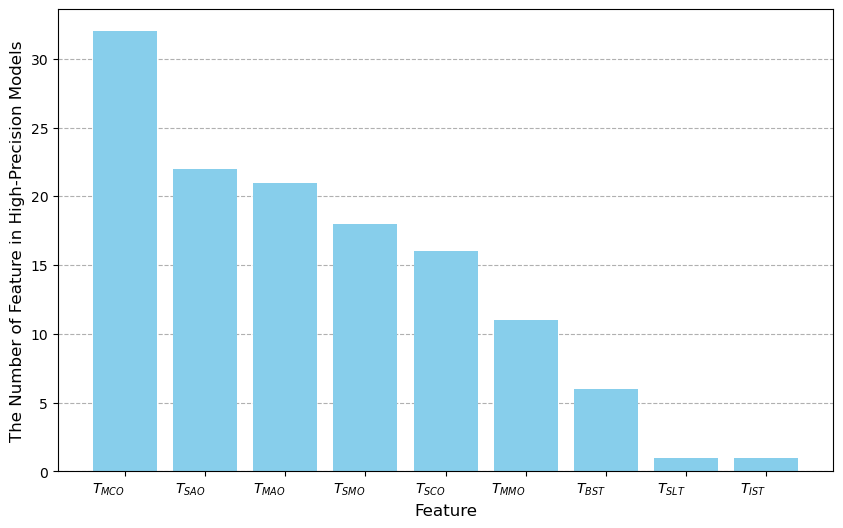
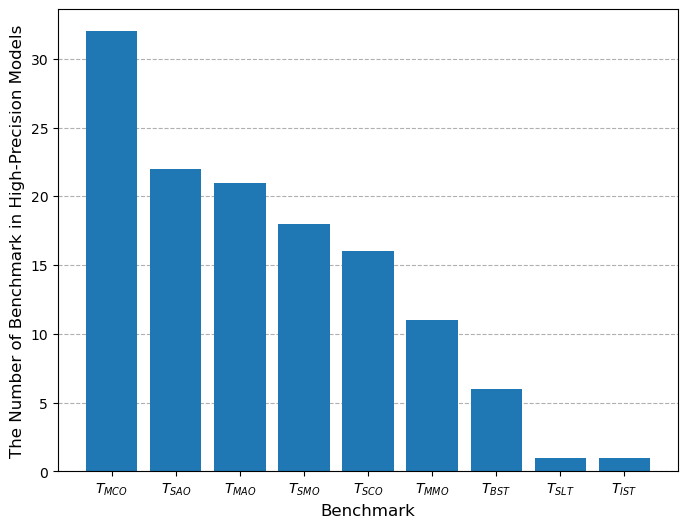
卒論　グラフの修正　ok

diff --git a/mape_boxplot_for_spec_benchmark.py b/mape_boxplot_for_spec_benchmark.py
@@ -1,17 +1,8 @@
-import os
 import sys
-
-import matplotlib.pyplot as plt
+import os
 import pandas as pd
+import matplotlib.pyplot as plt
 import seaborn as sns
-
-# サーバーの順序
-SERVER_ORDER = [
-    "13th corei5 - GTX1080", "13th corei5 - GTX1650", "13th corei5 - RTX3050",
-    "13th corei5 - RTX3060 Ti", "13th corei5 - RTX4070", "13th corei7 - GTX1080",
-    "13th corei7 - RTX3050", "13th corei7 - RTX3060 Ti", "13th corei7 - RTX4070",
-    "1th Xeon Gold - GTX1080", "1th Xeon Gold - RTX4070", "9th corei7 - RTX2080 Ti"
-]
 
 
 def main():
@@ -41,59 +32,27 @@ def main():
     benchmark_filtered_df = benchmark_df[benchmark_df['Variable Parameter'].apply(
         lambda x: set(x) == set(benchmark_parameter))]
 
-    # `Model Type` 列を追加して、どのデータが何のパラメータに対応するかを明示
-    spec_filtered_df['Model Type'] = 'Hardware spec Model'
-    benchmark_filtered_df['Model Type'] = 'Benchmark Model'
+    # `Category` 列を追加して、どのデータが何のパラメータに対応するかを明示
+    spec_filtered_df['Category'] = 'Hardware spec Model'
+    benchmark_filtered_df['Category'] = 'Benchmark Model'
 
-    hue_order = ['Benchmark Model', 'Hardware spec Model']
     # データフレームを結合
     combined_df = pd.concat([benchmark_filtered_df, spec_filtered_df])
 
-    # 棒グラフの作成
-    plt.figure(figsize=(9, 6))
-    ax = plt.gca()
-    ax.grid(axis='y', linestyle='--', zorder=1)  # グリッドをzorder=1で描画
-    palette = ['#1f77b4', '#ff7f0e']
-    # 棒グラフのプロット
-    sns.barplot(
-        x='Leave One',
-        y='MAPE test (%)',
-        hue='Model Type',
-        data=combined_df,
-        palette=palette,
-        order=SERVER_ORDER,
-        hue_order=hue_order,
-        zorder=2  # 棒グラフをzorder=2で描画
-    )
-
-    # Model Type ごとの平均 MAPE を計算
-    avg_mape = combined_df.groupby('Model Type')['MAPE test (%)'].mean().reset_index()
-
-    # 平均MAPEを直線でY軸に描画
-    for model_type in hue_order:
-        # 指定したModel Typeのデータを抽出
-        model_data = avg_mape[avg_mape['Model Type'] == model_type]
-
-        # 直線の色を設定
-        if model_type == 'Benchmark Model':
-            line_color = '#1f77b4'  # 青色
-        elif model_type == 'Hardware spec Model':
-            line_color = '#ff7f0e'  # オレンジ色
-
-        # Y軸に平均MAPEの直線を引く
-        ax.axhline(y=model_data['MAPE test (%)'].values[0],
-                   color=line_color,
-                   linestyle='--',
-                   linewidth=1,
-                   label=f'{model_type} average MAPE')
+    # 箱ひげ図の作成
+    plt.figure(figsize=(10, 6))
+    sns.boxplot(x='Category',
+                y='MAPE test (%)',
+                data=combined_df,
+                showmeans=True,
+                palette='Set3',
+                width=0.5,
+                whis=2.0)
 
     # タイトルとラベル設定
-    # 凡例を設定
-    plt.legend(loc='upper right')
-    plt.tight_layout()
-    plt.xlabel('Test Server', fontsize=12)
+    plt.xlabel('Model Type', fontsize=12)
     plt.ylabel('MAPE (%)', fontsize=12)
-    plt.xticks(rotation=45, ha='right', fontsize=10)
+    plt.xticks(fontsize=9)
     plt.tight_layout()
 
     # 出力ディレクトリの設定
@@ -101,7 +60,7 @@ def main():
     os.makedirs(output_dir, exist_ok=True)  # ディレクトリがない場合は作成
 
     # ファイルパスを設定して保存
-    output_path = os.path.join(output_dir, 'mape_comparison_spec_barplot.png')
+    output_path = os.path.join(output_dir, 'mape_comparison_spec_boxplot.png')
     plt.savefig(output_path, format='png')
 
     # 結果を表示

diff --git a/shap_analysis_parameter_visualization.py b/shap_analysis_parameter_visualization.py
@@ -1,8 +1,9 @@
-import pandas as pd
 import ast
-import matplotlib.pyplot as plt
-import seaborn as sns
 import os
+
+import matplotlib.pyplot as plt
+import pandas as pd
+import seaborn as sns
 from matplotlib.ticker import MaxNLocator  # MaxNLocatorをインポート
 
 csv_file = 'soturon_shap_graph.csv'
@@ -48,6 +49,9 @@ output_dir = './soturon_graph_data'
 if not os.path.exists(output_dir):
     os.makedirs(output_dir)
 
+# 1週目と2週目のPNGを保存するためのカウント
+roop_counter = 1
+
 for inputs in unique_inputs:
     # Variable Parameterに基づいてフィルタリング
     filtered_df = df[df['Variable Parameter'] == inputs]
@@ -72,7 +76,7 @@ for inputs in unique_inputs:
     shap_df['Parameter'] = shap_df['Parameter'].apply(to_latex_subscript)
 
     # グラフ作成: 各サーバーごとにパラメータのSHAP値を棒グラフで表示
-    plt.figure(figsize=(16, 8))  # 各グラフごとにサイズを設定
+    plt.figure(figsize=(9, 6))  # 各グラフごとにサイズを設定
 
     # 軸オブジェクトを取得
     ax = plt.gca()
@@ -96,13 +100,28 @@ for inputs in unique_inputs:
                                                                                10]))  # 10ごとの補助線
     # タイトルや設定
     #plt.title(f'Mean Absolute SHAP Values by Parameter and Server ({inputs})', fontsize=16)
-    plt.xticks(rotation=30, ha="right", fontsize=9)
+    plt.xlabel('Test Server', fontsize=12)
+    plt.ylabel('Mean Absolute SHAP Value', fontsize=12)
+    plt.xticks(rotation=45, ha="right", fontsize=10)
+    # 凡例の位置を右上に固定
+    plt.legend(loc='upper right')
+
     plt.tight_layout()
 
+    # 保存ファイル名の設定
+    if roop_counter == 1:
+        save_path = os.path.join(output_dir, "shap_graph_operation.png")
+    else:
+        save_path = os.path.join(output_dir, "shap_graph_transfer_and_operation.png")
+
     # 画像保存
-    save_path = os.path.join(output_dir, f"shap_graph_{inputs}.png")
     plt.savefig(save_path, bbox_inches='tight')  # PNG形式で保存
 
     # 現在の図をリセット
     plt.clf()  # 図をクリア
     plt.close()  # 図を閉じる
+
+    # 週数のカウントを進める
+    roop_counter += 1
+    if roop_counter > 2:
+        roop_counter = 1  # 1週目と2週目でローテーション

diff --git a/mape_comparison_across_servers.py b/mape_comparison_across_servers.py
@@ -1,7 +1,8 @@
-import pandas as pd
-import matplotlib.pyplot as plt
-import seaborn as sns
 import os
+
+import matplotlib.pyplot as plt
+import pandas as pd
+import seaborn as sns
 
 # パラメータリスト
 PARAMETER_LISTS = [['T_MCO', 'T_SMO', 'T_MAO'], ['T_BST', 'T_MCO', 'T_SAO']]
@@ -119,26 +120,31 @@ def plot_mape_comparison(df_filtered, output_dir):
         df_filtered (pd.DataFrame): フィルタリングされたデータフレーム。
         output_dir (str): グラフの保存先ディレクトリ。
     """
-    plt.figure(figsize=(14, 7))
+    plt.figure(figsize=(9, 6))
     ax = plt.gca()
     ax.grid(axis='y', linestyle='--', zorder=1)  # グリッドをzorder=1で描画
 
+    # Benchmark Parameter CombinationsをPARAMETER_LISTSの順番にソート
+    hue_order = [get_label(param_list) for param_list in PARAMETER_LISTS]
+    # 色の設定: 青とオレンジ
+    palette = ["#1f77b4", "#ff7f0e"]  # 青とオレンジ
     # 棒グラフのプロット
     sns.barplot(
         x='Leave One',
         y='MAPE test (%)',
         hue='Benchmark Parameter Combinations',
         data=df_filtered,
-        palette='Set1',
+        palette=palette,
         order=SERVER_ORDER,
+        hue_order=hue_order,
         zorder=2  # 棒グラフをzorder=2で描画
     )
 
     # タイトルとラベルの設定
-    plt.title('MAPE Comparison for Different Parameter Lists Across Servers', fontsize=16)
+    #plt.title('MAPE Comparison for Different Parameter Lists Across Servers', fontsize=16)
     plt.xlabel('Test Server', fontsize=12)
     plt.ylabel('MAPE (%)', fontsize=12)
-    plt.xticks(rotation=30, ha='right', fontsize=9)
+    plt.xticks(rotation=45, ha='right', fontsize=10)
     plt.tight_layout()
 
     # グラフを保存

diff --git a/plot_high_precision_models.py b/plot_high_precision_models.py
@@ -1,7 +1,8 @@
 import os
 import sys
-import pandas as pd
+
 import matplotlib.pyplot as plt
+import pandas as pd
 
 
 def main():
@@ -79,14 +80,14 @@ def plot_feature_importance(high_precision_models, output_dir):
         feature for features in high_precision_models['Variable Parameter'] for feature in features
     ]).value_counts()
 
-    plt.figure(figsize=(10, 6))
+    plt.figure(figsize=(8, 6))
     ax = plt.gca()
     ax.grid(axis='y', linestyle='--', zorder=1)  # グリッドを zorder=1 に設定
-    ax.bar(feature_counts.index, feature_counts.values, color='skyblue', zorder=2)  # 棒グラフ
+    ax.bar(feature_counts.index, feature_counts.values, zorder=2)  # 棒グラフ
     #plt.title('Feature Importance in High-Precision Models', fontsize=14)
-    plt.xlabel('Feature', fontsize=12)
-    plt.ylabel('The Number of Feature in High-Precision Models', fontsize=12)
-    plt.xticks(rotation=0, ha='right')
+    plt.xlabel('Benchmark', fontsize=12)
+    plt.ylabel('The Number of Benchmark in High-Precision Models', fontsize=12)
+    plt.xticks(rotation=0, ha='center', fontsize=10)
     save_path = os.path.join(output_dir, 'high_precision_benchmark_models.png')
     plt.savefig(save_path, bbox_inches='tight')  # PNG形式で保存
     plt.close()  # グラフを閉じる

diff --git a/mape_boxplot_for_parameter_combinations.py b/mape_boxplot_for_parameter_combinations.py
@@ -1,7 +1,8 @@
 import os
 import sys
-import pandas as pd
+
 import matplotlib.pyplot as plt
+import pandas as pd
 import seaborn as sns
 
 # LOO方式のMAPEを箱ひげ図で評価
@@ -73,7 +74,7 @@ def plot_combined_boxplot(df, output_dir):
         ordered=True)
 
     # 箱ひげ図を作成
-    plt.figure(figsize=(10, 6))  # 横幅を広げるために figsize を調整
+    plt.figure(figsize=(8, 6))  # 横幅を広げるために figsize を調整
     sns.boxplot(
         x='Model Label',
         y='MAPE test (%)',
@@ -83,15 +84,15 @@ def plot_combined_boxplot(df, output_dir):
         # 中央値非表示
         #medianprops={'visible': False},
         width=0.7,
-        whis=2.0)
+        whis=10.0)
 
     # ラベルとタイトルの設定
     #plt.title('MAPE (%) Distribution Across Models', fontsize=16)
-    plt.xlabel('Benchmark Parameter Combinations', fontsize=12)
+    plt.xlabel('Benchmark Combinations', fontsize=12)
     plt.ylabel('MAPE (%)', fontsize=12)
 
     # X軸ラベルを回転しつつフォントサイズを小さく設定
-    plt.xticks(rotation=30, ha='right', fontsize=9)
+    plt.xticks(rotation=45, ha='right', fontsize=10)
     plt.grid(axis='y', linestyle='--')
 
     # グラフを保存
